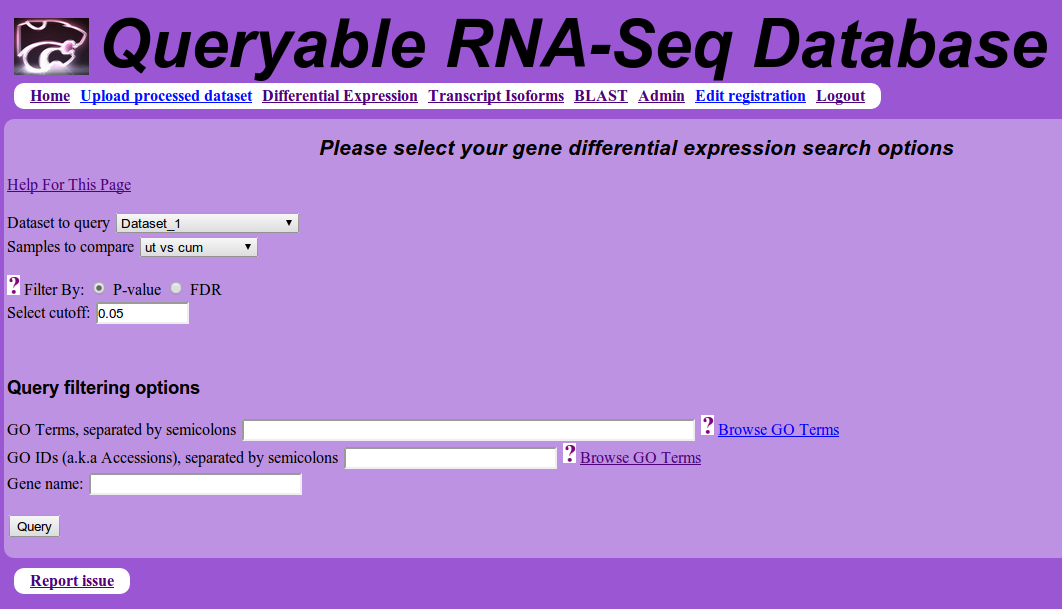
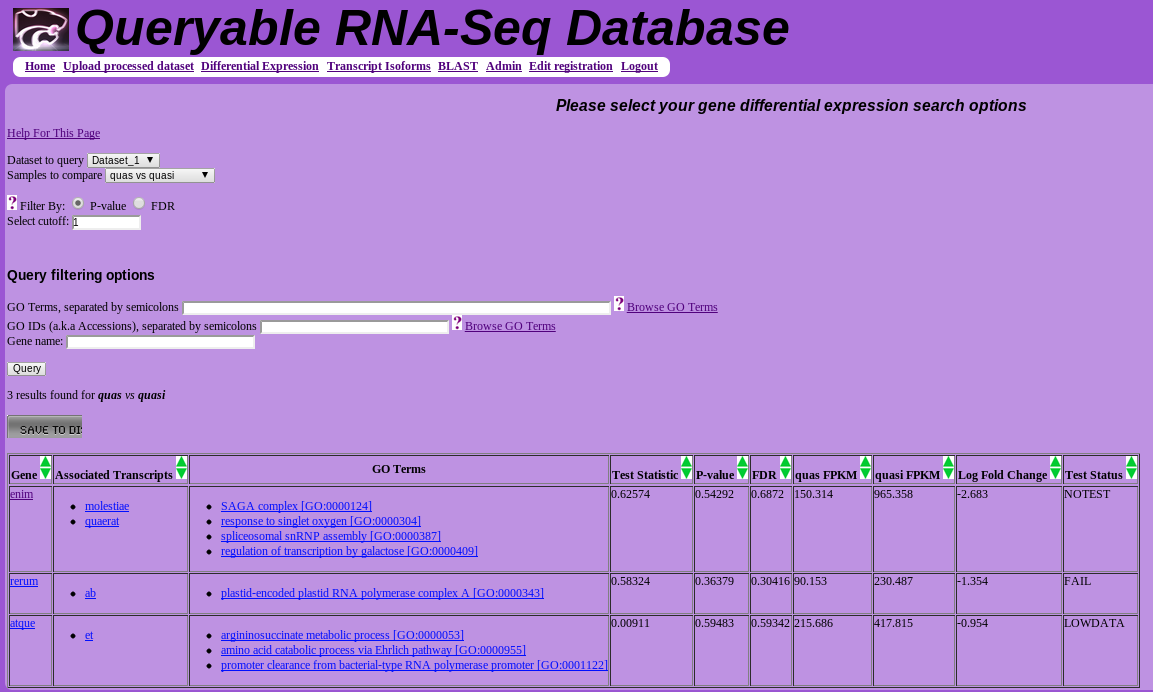
Made a few minor improvements.

diff --git a/app/views/query_analysis/upload_trinity_with_edger.js b/app/views/query_analysis/upload_trinity_with_edger.js
@@ -22,9 +22,8 @@ function create_tooltips(){
   //Tooltip for Trinity fasta file
   elements[0] = 'trinity_fasta_tooltip';
   titles[0] = 'Trinity.fasta file';
-  texts[0] = 'Trinity.pl produces a fasta file called Trinity.fasta ' +
-    'which contains the assembled transcripts. It is located in your ' +
-    'Trinity output directory.';
+  texts[0] = 'In your Trinity output directory there should be a file ' +
+             'of fasta sequences called Trinity.fasta.';
   //Tooltip for Differential expression files
   elements[1] = 'differential_expression_tooltip';
   titles[1] = 'Differential Expression File(s)';

diff --git a/app/helpers/query_analysis_helper.rb b/app/helpers/query_analysis_helper.rb
@@ -1,4 +1,16 @@
 module QueryAnalysisHelper
+  def ascending_sort_arrow
+    return image_tag('ascending_sort_arrow.png', :class => 'sort_arrow')
+  end
+  
+  def descending_sort_arrow
+    return image_tag('descending_sort_arrow.png', :class => 'sort_arrow')
+  end
+  
+  def neutral_sort_arrow
+    return image_tag('neutral_sort_arrow.png', :class => 'sort_arrow')
+  end
+  
   def link_to_fasta_sequence_for_transcript(dataset_id, transcript_name)
     link_address = "get_transcript_fasta?" +
                    "dataset_id=#{dataset_id}&" +
